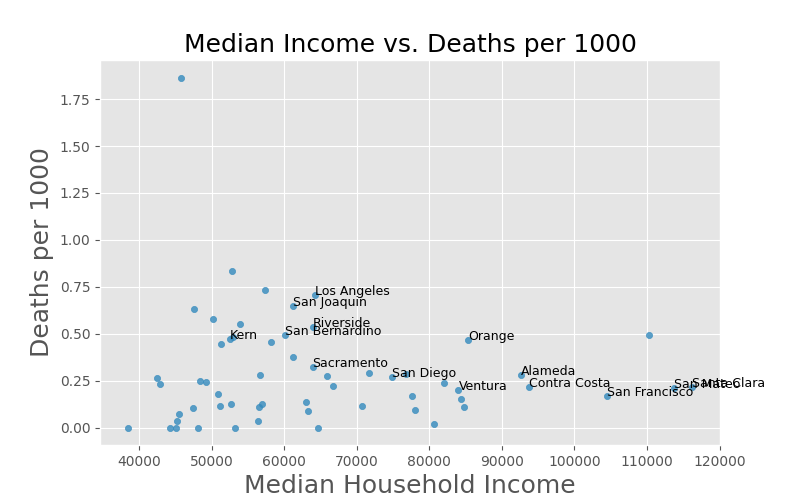
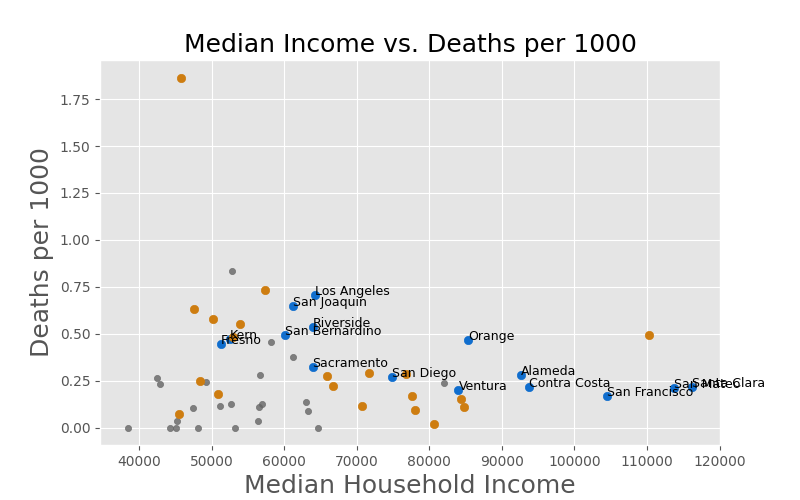
Added colorblind-friendly color scheme.

diff --git a/main.py b/main.py
@@ -1,3 +1,4 @@
+# Imports
 import pandas as pd
 import matplotlib as mplt
 import matplotlib.pyplot as plt
@@ -6,18 +7,23 @@ import matplotlib.pyplot as plt
 mplt.rcParams['figure.figsize'] = (8, 5)
 plt.style.use('ggplot')  # 7, 14
 
+# Load csv data files
 corona_totals = pd.read_csv('ca_county_coronavirus_totals.csv')
 county_info = pd.read_csv('ca_county_population_income.csv')
 
+# access most recent date
 most_recent_date = corona_totals.get('date').iloc[0]
 
+# create a dataframe of each county's updated corona info
 corona_by_county = (
     corona_totals[corona_totals.get('date') == most_recent_date]
         .get(['county', 'deaths'])
 )
 
+# merge corona table & county info table
 merged_county_info = corona_by_county.merge(county_info, left_on='county', right_on='county')
 
+# mutate table with deaths per 1000 pop column
 merged_county_info = merged_county_info.assign(
     death_per_1000=1000 * (merged_county_info.get('deaths') / merged_county_info.get('population'))
 )
@@ -26,20 +32,37 @@ merged_county_info = merged_county_info.set_index('county')
 # Counties with pop > 700,000
 major_counties = merged_county_info[merged_county_info.get('population') > 700_000].index.to_list()
 
+# Counties with pop > 100,000
+minor_counties = merged_county_info[(merged_county_info.get('population') < 700_000)
+                                    & (merged_county_info.get('population') > 100_000)].index.to_list()
+
+
 print(merged_county_info)
-merged_county_info.plot(kind='scatter', x='median_household_income', y='death_per_1000', alpha=0.8)
+
+# Plot Median Income vs. Deaths per 1000 (Blue/Orange/Grey for colorblind-friendly plot)
+merged_county_info.plot(kind='scatter', x='median_household_income', y='death_per_1000', alpha=0.8,
+                        color=(100/255, 100/255, 100/255))  # Grey
 plt.title('Median Income vs. Deaths per 1000', fontname='DejaVu Sans', fontsize=18)
 plt.xlabel('Median Household Income', fontname='DejaVu Sans', fontsize=18)
 plt.ylabel('Deaths per 1000', fontname='DejaVu Sans', fontsize=18)
 
 for county in merged_county_info.index:
-    if county not in major_counties:
-        continue
-
-    plt.text(
-        merged_county_info.get('median_household_income').loc[county],
-        merged_county_info.get('death_per_1000').loc[county],
-        county, fontname='DejaVu Sans', fontsize=9
-    )
+    if county in major_counties:
+        plt.text(
+            merged_county_info.get('median_household_income').loc[county],
+            merged_county_info.get('death_per_1000').loc[county],
+            county, fontname='DejaVu Sans', fontsize=9
+        )
+        plt.scatter(
+            merged_county_info.get('median_household_income').loc[county],
+            merged_county_info.get('death_per_1000').loc[county],
+            color=(16/255,110/255,206/255)  # Blue
+        )
+    elif county in minor_counties:
+        plt.scatter(
+            merged_county_info.get('median_household_income').loc[county],
+            merged_county_info.get('death_per_1000').loc[county],
+            color=(206 / 255, 125 / 255, 16 / 255)  # Orange
+        )
 
 plt.show()
